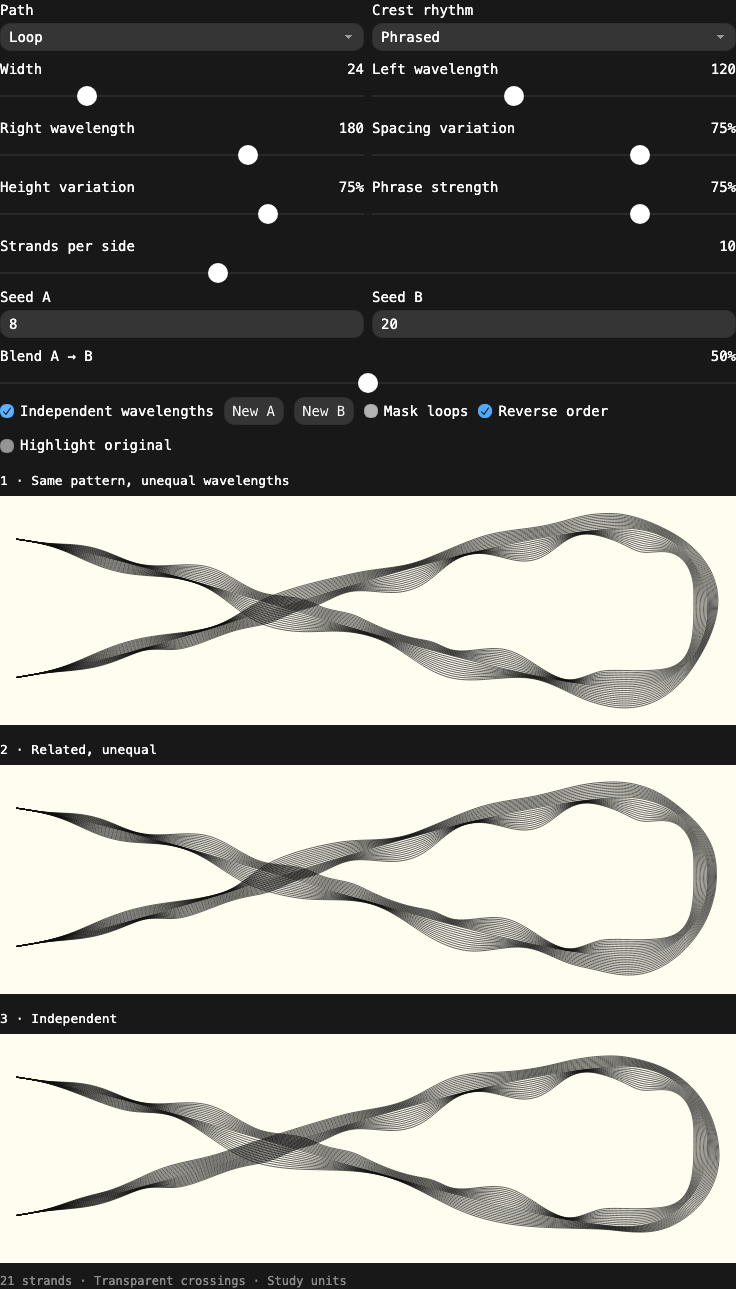
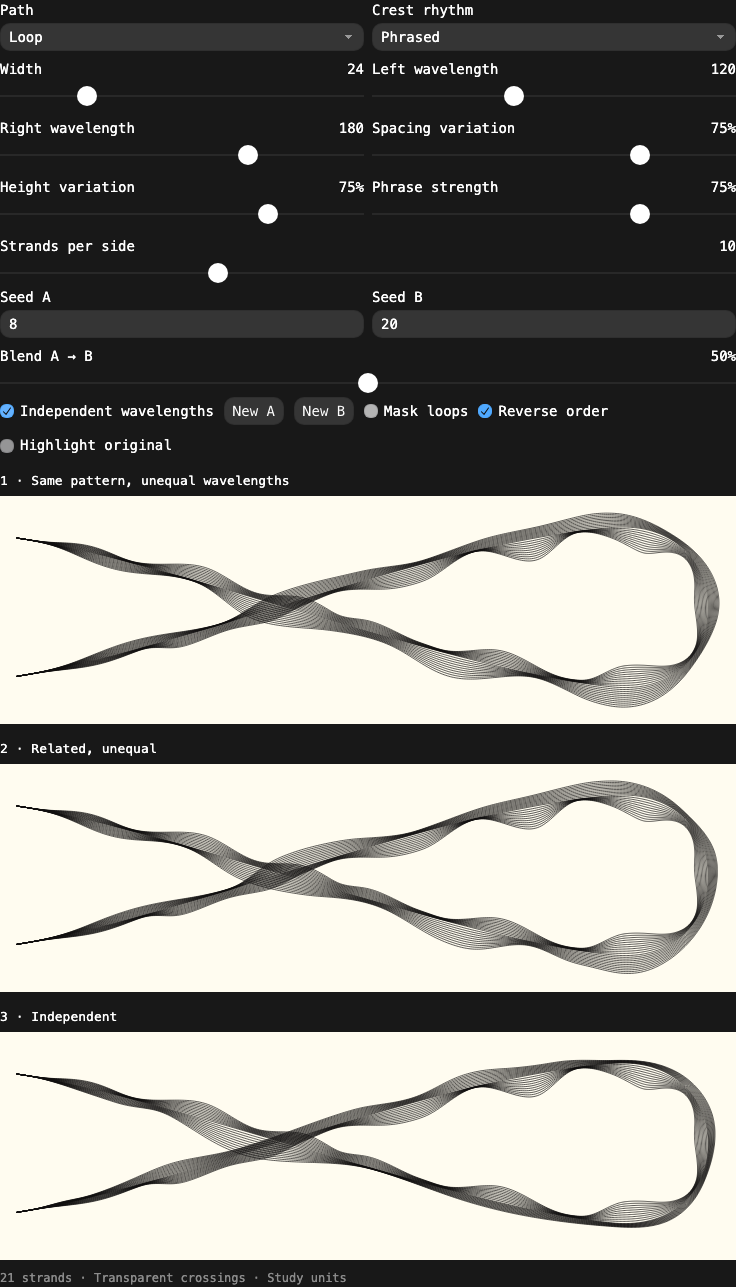
feat: strengthen seed variation in ribbon crest patterns

diff --git a/docs/reviews/open-path-ribbon-2026-09-08/geometry.js b/docs/reviews/open-path-ribbon-2026-09-08/geometry.js
@@ -195,7 +195,7 @@
     // Use a whole number of lobes, including short paths. Distribute the
     // terminal remainder across the path instead of chopping the last lobe.
     const count = Math.max(1, Math.min(4096, Math.round(total / wave)));
-    const motif = Array.from({length: 3}, () => .65 + structure() * .7);
+    const motif = Array.from({length: 3}, () => .4 + structure() * 1.1);
     const events = [];
     let phraseLeft = 0, phraseSize = 0, accent = 0, phraseGain = 1, pace = 1;
     for (let i = 0; i < count; i++) {
@@ -203,21 +203,24 @@
         phraseSize = 3 + Math.floor(structure() * 3);
         phraseLeft = phraseSize;
         accent = Math.floor(structure() * Math.min(phraseSize, count-i));
-        phraseGain = .68 + structure() * .32;
-        pace = .72 + structure() * .56;
+        phraseGain = .82 + structure() * .18;
+        pace = .65 + structure() * .7;
       }
       const position = phraseSize - phraseLeft--;
-      const localSpan = .4 + rhythm() * 1.2;
+      const localSpan = .25 + rhythm() * 1.5;
       const phraseSpan = pace * motif[position % motif.length];
       const span = clamp(Math.pow(mix(1, mix(localSpan, phraseSpan, phrasing), spacing),
         1+2.5*spacingPush),.18,3.5);
       const skew = (rhythm() - .5) * .5 * spacing;
-      const freeHeight = .38 + heights() * .62;
-      const hierarchy = phraseGain * (position === accent ? 1 : .46 + heights() * .3);
+      const freeHeight = .08 + heights() * .92;
+      const hierarchy = phraseGain * (position === accent ? 1 : .12 + heights() * .73);
       const peak = heightContrast(mix(.86, mix(freeHeight, hierarchy, phrasing), height));
       const trough = heightContrast(mix(.21, .07 + heights() * .2, height));
       events.push({span, skew, peak, trough});
     }
+    // Quiet crests can now be very small; keep their neighbouring troughs
+    // below both peaks rather than accidentally introducing extra extrema.
+    events.forEach((e,i)=>{e.trough=Math.min(e.trough,.65*e.peak,.65*(events[i+1]?.peak??e.peak));});
     const scale = Math.max(0, total) / events.reduce((sum,e) => sum+e.span, 0);
     const knots = [{s:0,v:0}];
     let s = 0;
@@ -272,6 +275,8 @@
       return {s:k.s+(random()-.5)*.55*spacing*room,
         v:clamp(k.v*(1+(random()-.5)*.55*height),.035,1)};
     });
+    for(let i=2;i<knots.length-1;i+=2)
+      knots[i].v=Math.min(knots[i].v,.65*knots[i-1].v,.65*knots[i+1].v);
     return profileFromKnots(knots,left.smoothingRadius);
   }
 

diff --git a/docs/reviews/open-path-ribbon-2026-09-08/seed-contrast-evidence.py b/docs/reviews/open-path-ribbon-2026-09-08/seed-contrast-evidence.py
@@ -1,0 +1,33 @@
+"""Neutral crest population, with regular and ungrouped controls."""
+from pathlib import Path
+import json
+import subprocess
+from playwright.sync_api import sync_playwright
+HERE=Path(__file__).resolve().parent
+rows=[dict(id=f'S{i+1:02}',seed=seed,shape='straight',rhythm='phrased',phrasing=.7,variant=variant) for i,(variant,seed) in enumerate((v,s) for v in ['before','after'] for s in [7,19,43])]
+(HERE/'seed-contrast-map.json').write_text(json.dumps(rows,indent=2)+'\n')
+with sync_playwright() as p:
+    browser=p.chromium.launch()
+    page=browser.new_page(viewport={'width':1440,'height':1200})
+    page.set_content('<main id="sheet" style="background:#FFFCF0;color:#100F0F;padding:20px;display:grid;grid-template-columns:repeat(3,1fr);gap:20px;font:14px monospace"></main>')
+    for file in ['vendor/polygon-clipping-0.15.7.js','corner-envelope.js','masking.js','geometry.js']:
+        page.add_script_tag(content=(HERE/file).read_text())
+    page.add_script_tag(content=subprocess.check_output(['git','show','10713ec:docs/reviews/open-path-ribbon-2026-09-08/geometry.js'],text=True).replace('root.RibbonStudy = api;', 'root.RibbonBefore = api;'))
+    page.evaluate('''rows=>{
+      for(const c of rows){
+        const engine=c.variant==='before'?RibbonBefore:RibbonStudy;
+        const r=engine.generate(engine.fixtures[c.shape],{width:42,wavelength:120,variation:.75,spacingVariation:.75,heightVariation:.75,steps:10,taper:.07,relation:'related',...c});
+        const ps=r.strands.flat(), xs=ps.map(p=>p[0]),ys=ps.map(p=>p[1]);
+        const v=[Math.min(...xs)-12,Math.min(...ys)-12,Math.max(...xs)-Math.min(...xs)+24,Math.max(130,Math.max(...ys)-Math.min(...ys)+24)];
+        const path=ps=>ps.map((p,i)=>(i?'L':'M')+p.join(' ')).join(' ');
+        document.getElementById('sheet').insertAdjacentHTML('beforeend',`<section id="${c.id}"><div>${c.id}</div><svg style="width:100%;height:185px" viewBox="${v.join(' ')}"><g fill="none" stroke="#100F0F" stroke-width=".7" stroke-linejoin="round">${r.strands.map(s=>`<path d="${path(s)}"/>`).join('')}</g></svg></section>`);
+      }
+    }''',rows)
+    page.locator('#sheet').screenshot(path=str(HERE/'seed-contrast.png'))
+    for id in []:
+        el=page.locator('#'+id)
+        el.evaluate('(e)=>{e.style.width="1050px";e.querySelector("svg").style.height="340px"}')
+        el.screenshot(path=str(HERE/(id+'-crest.png')))
+        el.evaluate('(e)=>{e.style.width="";e.querySelector("svg").style.height="185px"}')
+    browser.close()
+print('Captured matched seed comparison: before S01–03, after S04–06.')

diff --git a/docs/reviews/open-path-ribbon-2026-09-08/CREST-STATUS.md b/docs/reviews/open-path-ribbon-2026-09-08/CREST-STATUS.md
@@ -106,3 +106,19 @@ compatibility, and six unequal-wavelength fixtures with masking in both orders.
 The existing geometry/crest/smoothing checks and browser interactions/layouts
 also pass. The lead inspected the 736/360 layouts with both new features active.
 No paper or installed-app testing; ready for Ian to check.
+
+## More distinct seed patterns
+
+Ian clarified that slider amounts should stay fixed while different seeds produce
+more distinct heights and spacing. Broadened seeded span motifs/local spans and
+the subordinate crest height range. Group accents remain strong; non-accent crests
+can now become much quieter. Troughs are bounded below neighbouring peaks in both
+the base and related profiles, avoiding extra extrema when a crest is suppressed.
+Seed selection still does not move UI sliders. Zero variation remains regular.
+
+`seed-contrast-evidence.py` compares immutable 10713ec with this revision for
+seeds 7/19/43 at identical 75% settings. S01–03 are before, S04–06 after; see
+`seed-contrast.png`. The lead inspected it: S04/S05 show stronger quiet/prominent
+contrasts while S06 remains more even, retaining variety across the population.
+The crest, seed-blend, smoothing and browser checks passed. Ready for Ian to check;
+no installed-app or paper validation.
